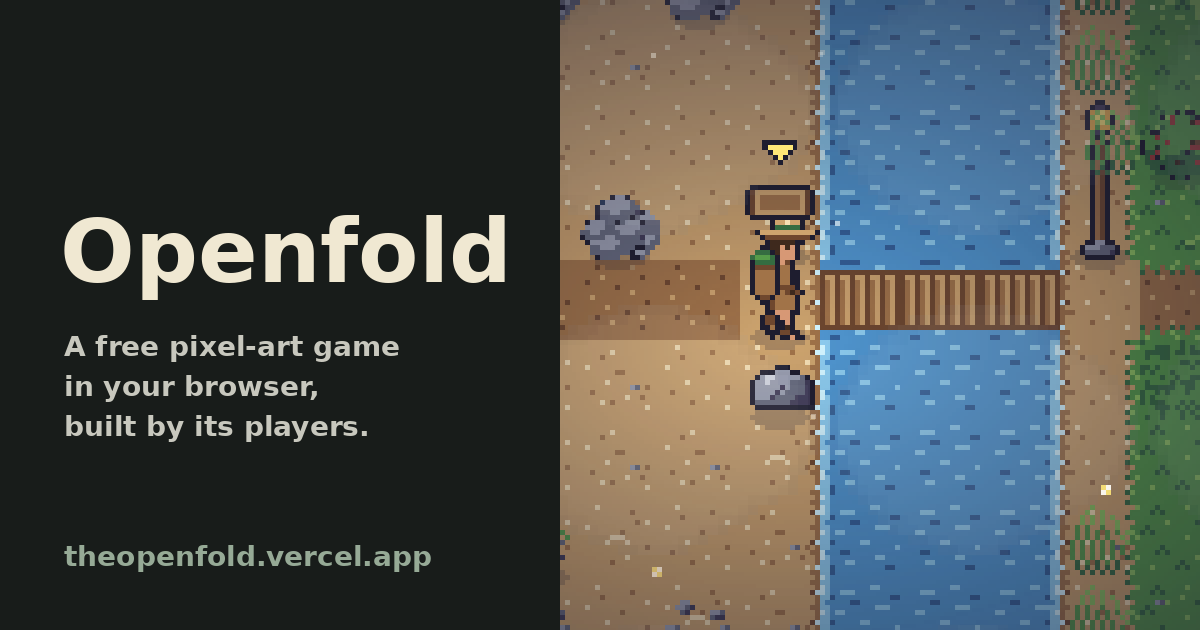
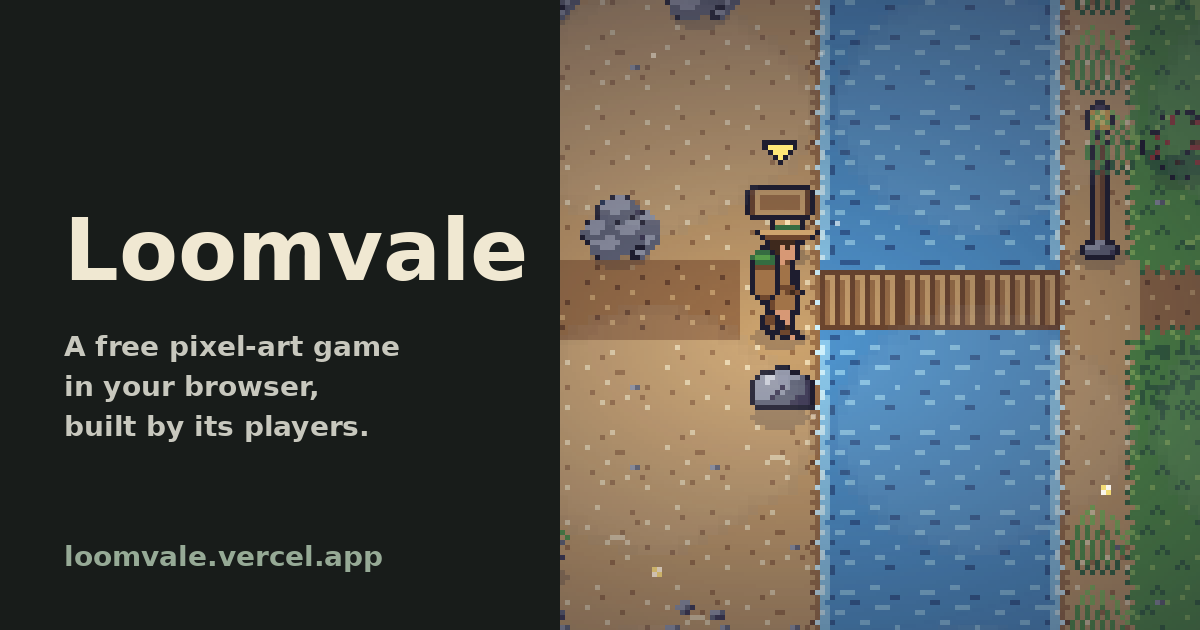
fix(web): the share card says Loomvale and loomvale.vercel.app
Every shared link showed the old name and an address that answers 404.
Only the lettering changes; the bridge frame is pixel-identical.

Changed region(s): [[0.0308, 0.3317, 0.4625, 0.4825], [0.0617, 0.8444, 0.37, 0.9048]]

diff --git a/DECISIONS.md b/DECISIONS.md
@@ -4483,3 +4483,8 @@ Retry when: never needed; if the owner names a clip, rule it again. Model: manag
 The kit's character clips (verb + race + view, each with its own `frame_ms`) are played by the figure code and nothing else reads them. The kernel decides when a strike lands and how long an action takes; a clip never changes an outcome, a duration or a reward, and nothing in `kernel/` knows of one.
 One rule for every verb: a clip starts at its first frame; while an action with a length (felling, quarrying, digging: the kernel's busy ms) is under way it loops and the action's end cuts it, so a clip longer than its action is cut and a shorter one repeats like a swing; an action with no length (a fight outcome, one beat of a minigame) plays the clip once. Walking away cuts any clip.
 Why: a loop and a cut are the two things a player does not notice in a repeated swing; holding the last frame reads as a freeze. Retry when: a clip of a work verb looks wrong cut mid-swing in the game (then the work's own length may need to follow the clip, which is the kernel's and a separate decision). Model: sonnet, headless. Link: #742.
+
+## 2026-11-19 ✅ The share card says Loomvale: the same card, only the name and the address relettered
+
+The card `web/public/og/card.png` still read "Openfold" and `theopenfold.vercel.app`, which answers 404, so every link to the game shared on Reddit, X or a chat showed the old name and a dead address (kept on purpose by the rename, "the lettering of the card is the owner's call", entry of the name change). The new card keeps everything else: the bridge frame on the right is pixel-identical to the old card (difference bbox: none), the tagline lines render byte-identical in DejaVu Sans Bold 28, and the name is set in the same DejaVu Sans Bold 86 at the same left margin and ink top. The owner approves the lettering by putting `land-ok` on the pull request. The redraw of the frame itself still waits for PRE_RICH_REDRAW row 30.
+**Retry when:** the rich redraw of rows 1, 2, 4 and 13 lands (a new frame), or the owner wants another lettering. Model: claude-opus-5-5.
